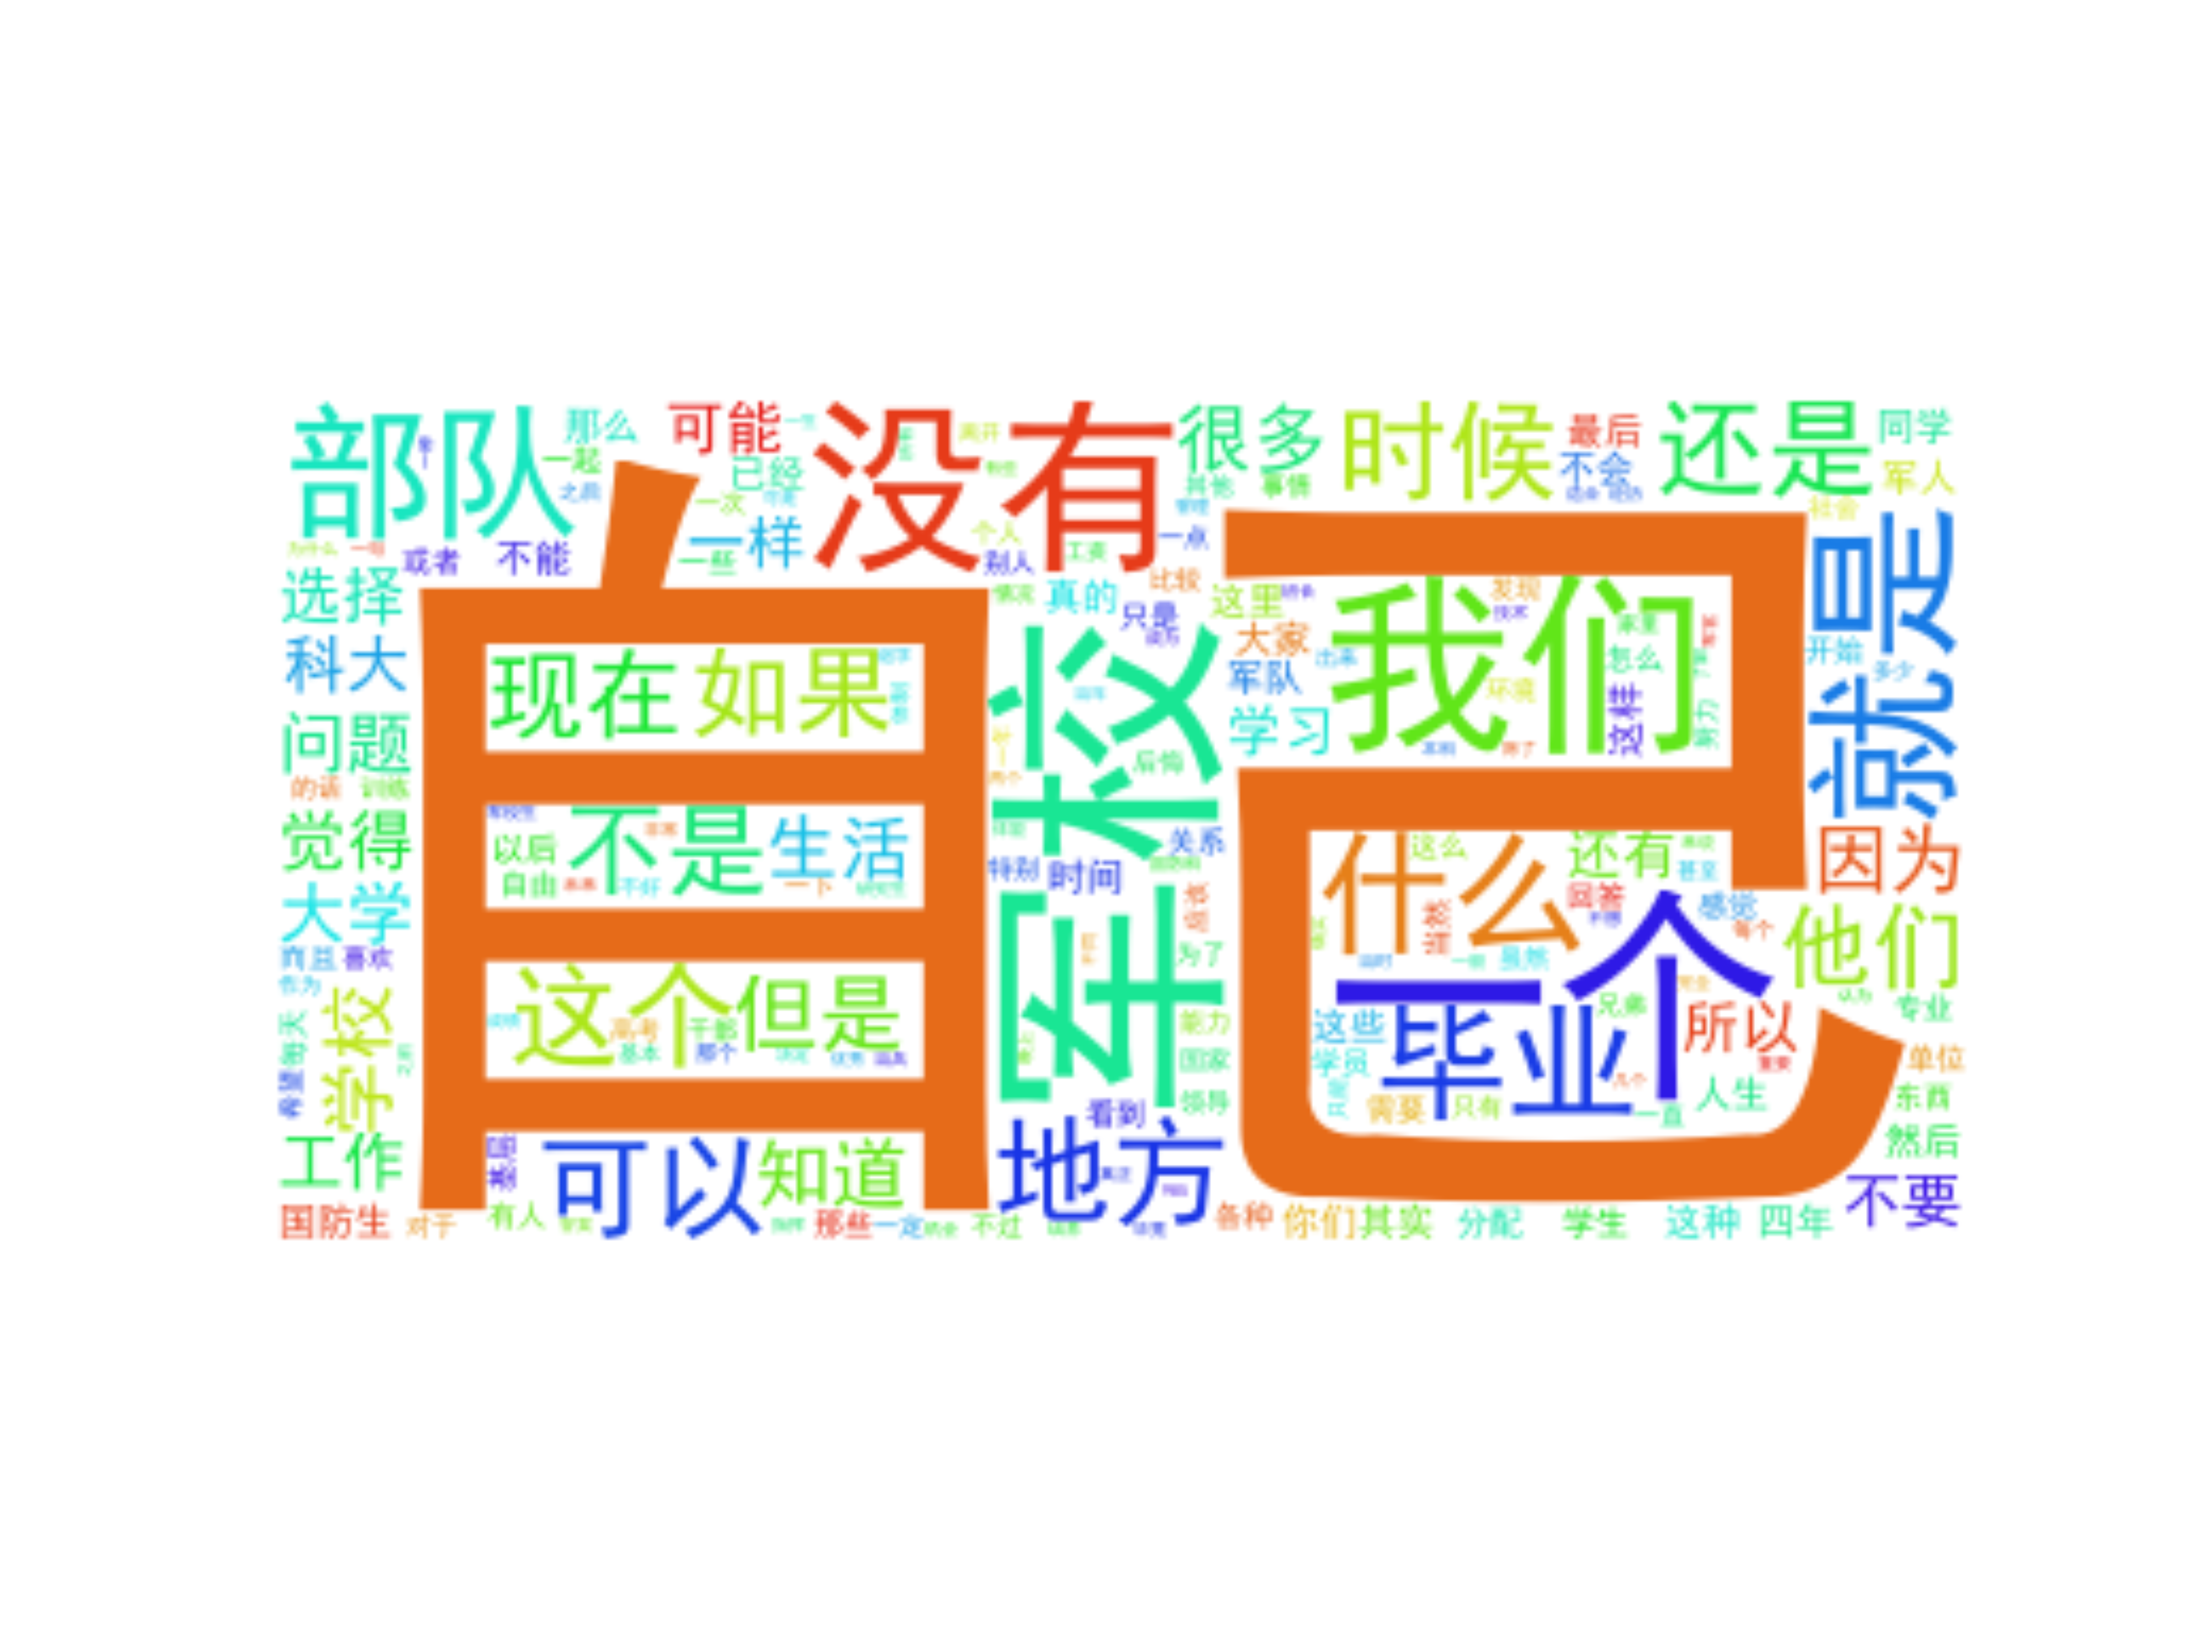
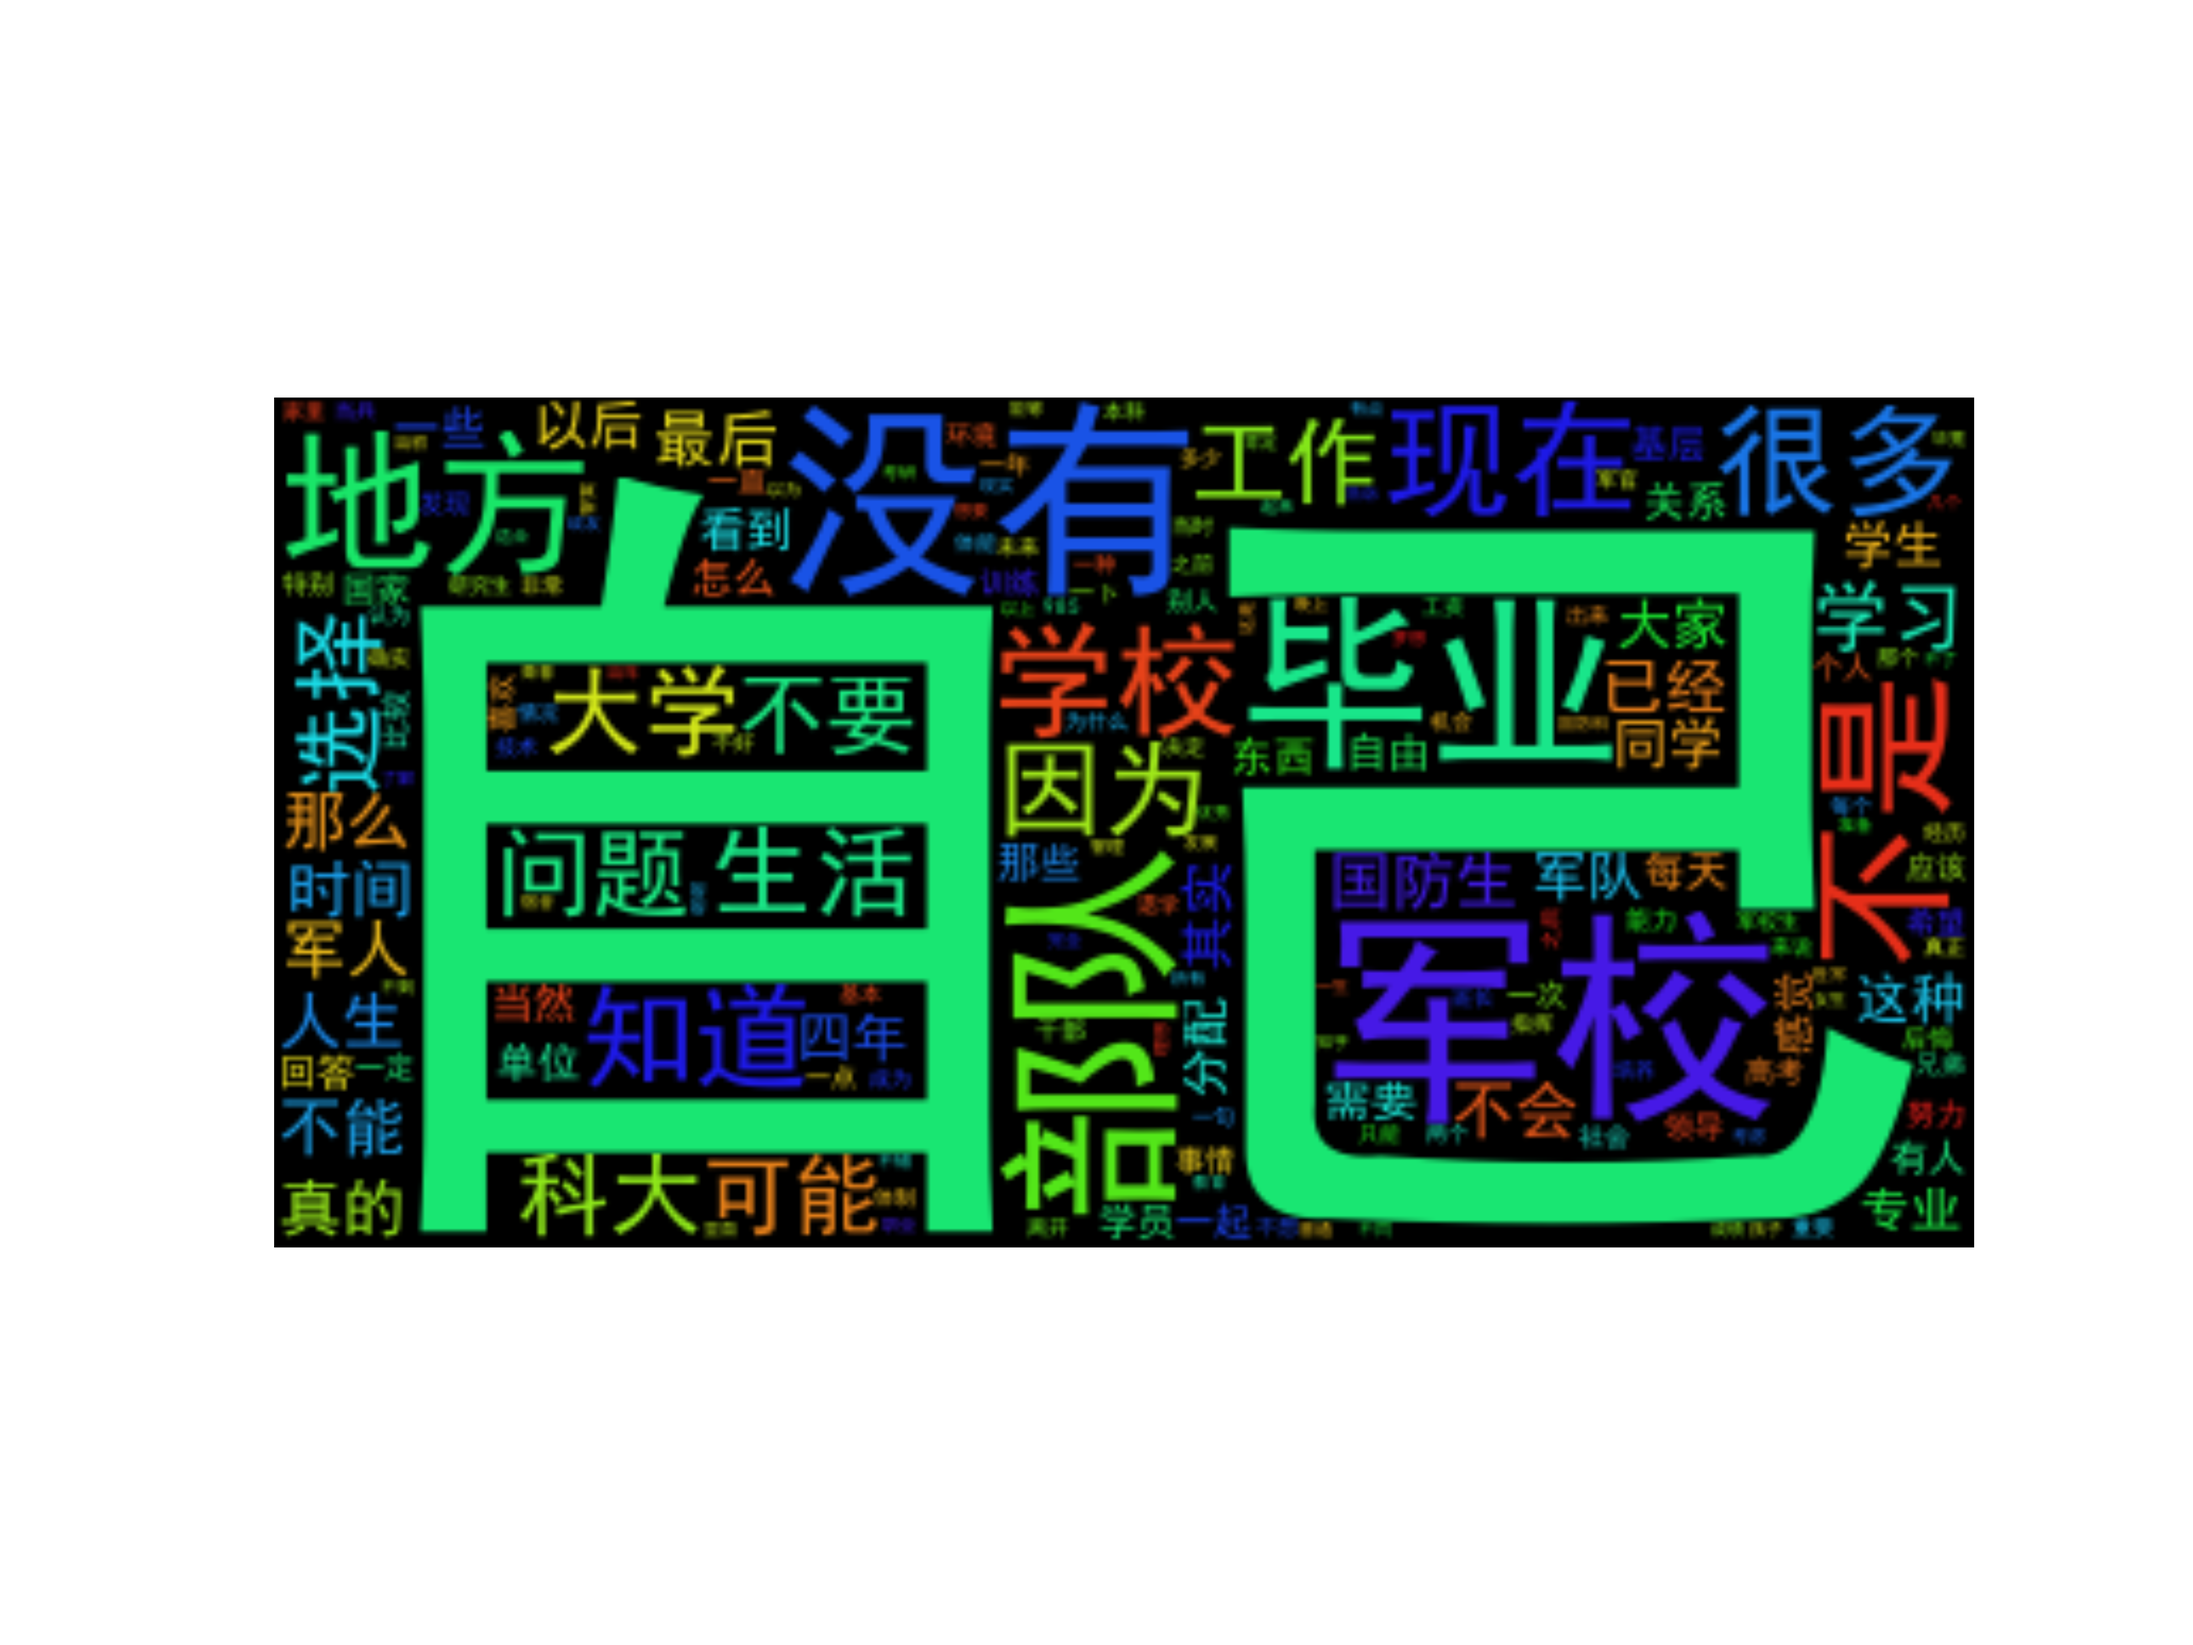
update stopwords and regenerate a pic

diff --git a/WordCloutGenerate.py b/WordCloutGenerate.py
@@ -3,8 +3,6 @@ import numpy
 import codecs
 import pandas
 import matplotlib.pyplot as plt
-
-from scipy.misc import imread
 from wordcloud import WordCloud, ImageColorGenerator
 from os import listdir
 from os.path import isfile, join
@@ -21,28 +19,20 @@ for seg in segs:
     if len(seg) > 1 and seg != '\r\n':
         segment.append(seg)
 
-file = codecs.open('stopwords_cn.txt', 'r')
-stopwords = [line.strip() for line in file.read().split('\r\n')]
-file.close()
-
-print stopwords[0]
-
-words_df = pandas.DataFrame({'segment': segment})
+words_df = pandas.DataFrame({'segment':segment})
 words_df.head()
-words_df = words_df[~words_df.segment.isin(stopwords)]
+stopwords = pandas.read_csv("stopwords_cn.txt", index_col=False, quoting=3, sep="\t",
+                          names=['stopword'], encoding="utf8")
+words_df = words_df[~words_df.segment.isin(stopwords.stopword)]
 
-words_stat = words_df.groupby(by=['segment'])['segment'].agg({"count":numpy.size})
+words_stat = words_df.groupby(by=['segment'])['segment'].agg({"count": numpy.size})
 words_stat = words_stat.reset_index().sort(columns="count", ascending=False)
 
-# wordcloud = WordCloud(font_path='simhei.ttf', background_color='black')
-# wordcloud = wordcloud.fit_words(words_stat.head(1000).itertuples(index=False))
-# plt.imshow(wordcloud)
-# plt.show()
+words_stat = words_df.groupby(by=['segment'])['segment'].agg({"count": numpy.size})
+words_stat = words_stat.reset_index().sort(columns="count", ascending=False)
 
-# bimg = imread('heart2.jpg')
-wordcloud = WordCloud(font_path='simhei.ttf', background_color='white')
-wordcloud = wordcloud.fit_words(words_stat.head(2000).itertuples(index=False))
-# bimgColors = ImageColorGenerator(bimg)
+wordcloud = WordCloud(font_path='simhei.ttf', background_color='black')
+wordcloud = wordcloud.fit_words(words_stat.head(1000).itertuples(index=False))
 plt.axis('off')
 plt.imshow(wordcloud)
 plt.savefig('./result.png', dpi=600)
